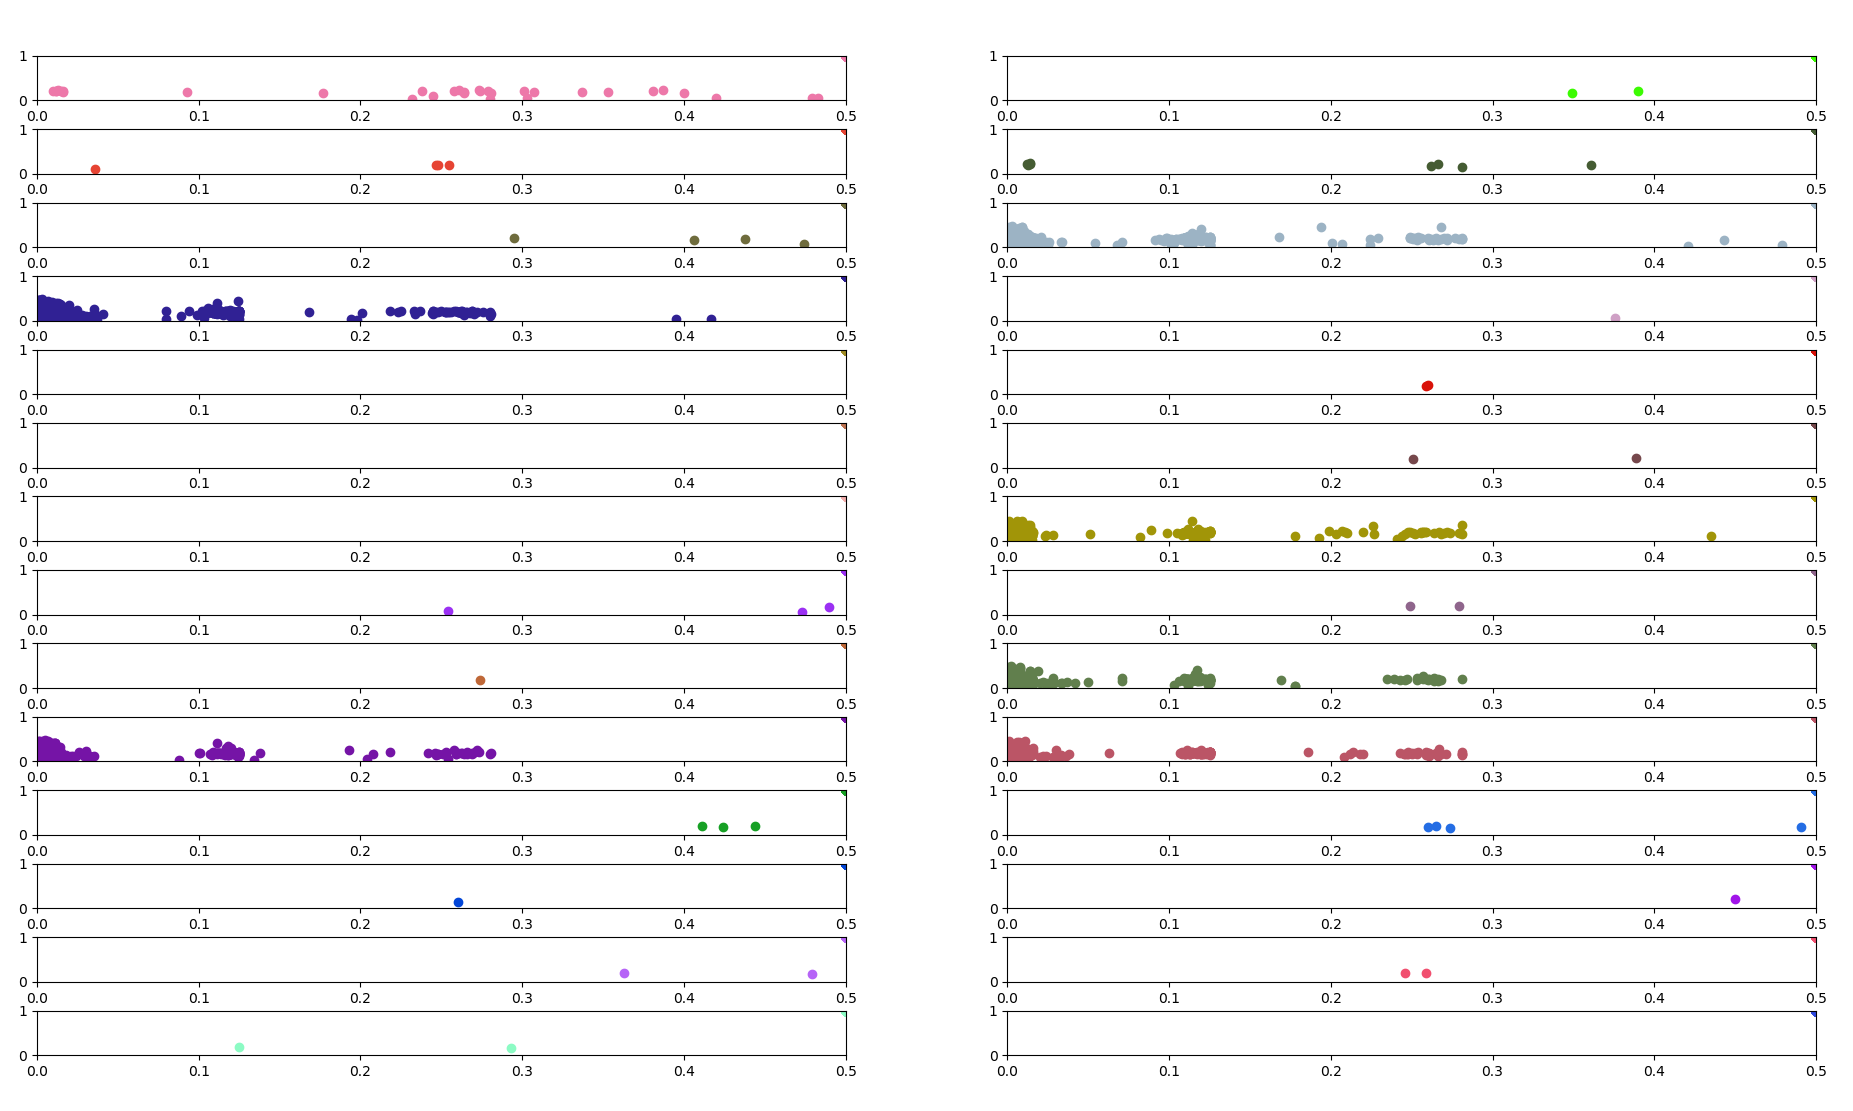
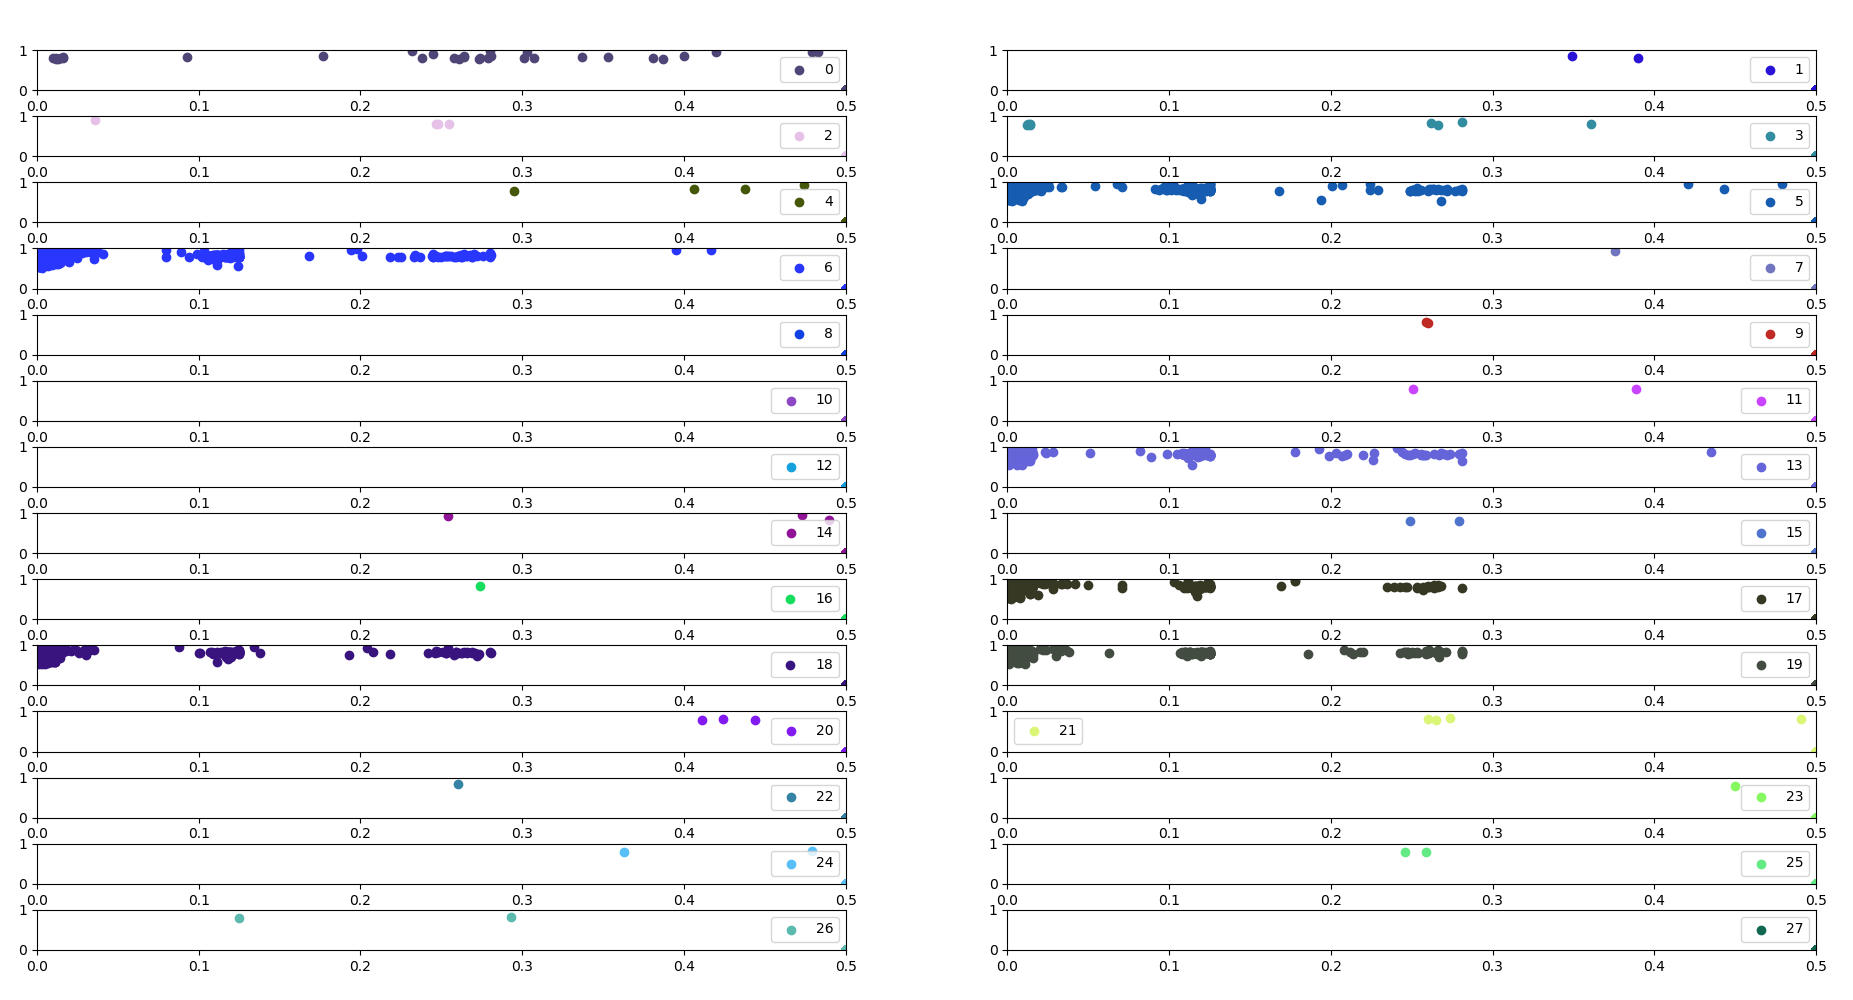
fix errors from gits

diff --git a/Code/test_mutation.py b/Code/test_mutation.py
@@ -696,7 +696,7 @@ def med_var(arr):
 
 
 if __name__ == '__main__':
-    calc_hv = True
+    calc_hv = False
     create_woi_cr = False
     woi_n_generate = False
     anim = False
@@ -704,7 +704,7 @@ if __name__ == '__main__':
     woi_n_generate_all = False
     concept_woi = False
     res2plot = False
-    selected_concepts = False
+    selected_concepts = True
     hv_in_gen = False
     fol = "/results/mutauioncheck/woi_025_075/30_runs/"
     # end_fol = ""
@@ -983,22 +983,24 @@ if __name__ == '__main__':
             conf2plot.append([[],[]])
             conc2check = concepts[concepts_name]
             for conf in conc2check:
-                z = conf[conf.keys()[0]]["z"]
-                mu = conf[conf.keys()[0]]["mu"]
-                if z == "70":
+                z = float(conf[conf.keys()[0]]["z"])
+                mu = float(conf[conf.keys()[0]]["mu"])
+                if z == 70:
                     z = 0.5
                     mu = 1
                 conf2plot[i][0].append(z)
-                conf2plot[i][1].append(mu)
+                conf2plot[i][1].append(1-mu)
             if i % 2:
                 ax[i/2, 0].scatter(np.asarray(conf2plot[i-1][0], dtype=float), np.asarray(conf2plot[i-1][1], dtype=float),
-                            label=conc2check[i-1], c=np.random.rand(3,))
+                            label=str(i-1), c=np.random.rand(3,))
                 ax[i/2, 1].scatter(np.asarray(conf2plot[i][0], dtype=float), np.asarray(conf2plot[i][1], dtype=float),
-                            label=conc2check[i], c=np.random.rand(3,))
+                            label=str(i), c=np.random.rand(3,))
                 ax[i/2, 0].set_xlim((0, 0.5))
                 ax[i/2, 1].set_xlim((0, 0.5))
                 ax[i/2, 0].set_ylim((0, 1))
                 ax[i/2, 1].set_ylim((0, 1))
+                ax[i/2, 0].legend()
+                ax[i/2, 1].legend()
     if hv_in_gen:
         names = list(itertools.chain(*names))
         gens2find = [30, 50, 75, 125, 200]
